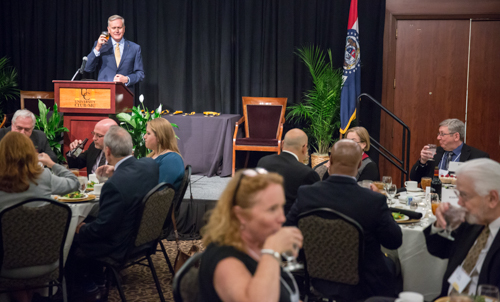
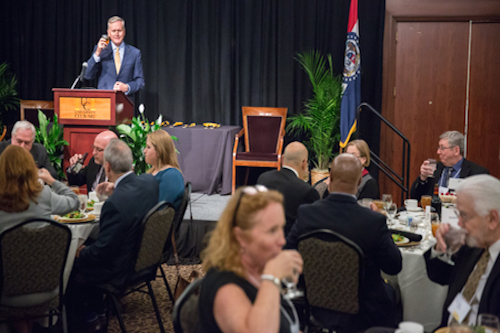
changed image size + banquet carousel

diff --git a/banquet.html b/banquet.html
@@ -2,13 +2,22 @@
    "http://www.w3.org/TR/xhtml1/DTD/xhtml1-transitional.dtd">
 <html xmlns="http://www.w3.org/1999/xhtml">
 <head>
-<<<<<<< Updated upstream
+
 	<title>	Banquet </title>
   <meta name="viewport" content="width=device-width, initial-scale=1"/>
   <meta http-equiv="content-type" content="text/html;charset=utf-8" />
-  <link rel="stylesheet" type="text/css" href="style.css" />
   <script src="https://code.jquery.com/jquery-1.12.0.min.js"></script>
   <script src="javascript.js" type="text/javascript"></script>
+  <script src="https://ajax.googleapis.com/ajax/libs/jquery/3.1.1/jquery.min.js"></script>
+  <script src="https://maxcdn.bootstrapcdn.com/bootstrap/3.3.7/js/bootstrap.min.js"></script>
+  <style>
+  .carousel-inner > .item > img,
+  .carousel-inner > .item > a > img {
+      width: 80%;
+      margin: auto;
+  }
+  </style>
+<link rel="stylesheet" type="text/css" href="style.css" />
 </head>
 
 
@@ -52,7 +61,7 @@
 <h2>Banquet</h2>
 
 
-
+<!--
 <img src="Pictures/Missouri Honor Medal_YoungraeKim/20161018_kimy_0011.jpg" alt="Banquet photo"/>
 <img src="Pictures/Missouri Honor Medal_YoungraeKim/20161018_kimy_0013.jpg" alt="Banquet photo 2"/>
 <p> The Missouri Honor Medal Banquet climactially wraps up a day of master classes with a celebratory dinner. The banquet honors the nominees with a formal three-course dinner. Each medalist is then introduced by the dean or provost, presented with a medal and invited to give a speech.</p>
@@ -65,6 +74,58 @@
 </p>
 
 <a href="BanquetInvitation_Rev1.pdf">Download Banquet invitation</a>
+-->
+
+<div class="container">
+  <br>
+  <div id="myCarousel" class="carousel slide" data-ride="carousel">
+    <!-- Indicators -->
+    <ol class="carousel-indicators">
+      <li data-target="#myCarousel" data-slide-to="0" class="active"></li>
+      <li data-target="#myCarousel" data-slide-to="1"></li>
+      <li data-target="#myCarousel" data-slide-to="2"></li>
+      <li data-target="#myCarousel" data-slide-to="3"></li>
+      <li data-target="#myCarousel" data-slide-to="4"></li>
+    </ol>
+
+    <!-- Wrapper for slides -->
+    <div class="carousel-inner" role="listbox">
+      <div class="item active">
+        <img src="20161018_kimy_0011.jpg" width="600" height="400">
+      </div>
+
+      <div class="item">
+        <img src="20161018_kimy_0013.jpg" width="600" height="400">
+      </div>
+
+      <div class="item">
+        <img src="20161018_kimy_0038.jpg" width="600" height="400">
+      </div>
+
+      <div class="item">
+        <img src="20161018_kimy_0032.jpg" width="600" height="400">
+      </div>
+
+      <div class="item">
+        <img src="20161018_kimy_0009.jpg" width="600" height="400">
+      </div>
+    </div>
+
+    <!-- Left and right controls -->
+    <a class="left carousel-control" href="#myCarousel" role="button" data-slide="prev">
+      <span class="glyphicon glyphicon-chevron-left" aria-hidden="true"></span>
+      <span class="sr-only">Previous</span>
+    </a>
+    <a class="right carousel-control" href="#myCarousel" role="button" data-slide="next">
+      <span class="glyphicon glyphicon-chevron-right" aria-hidden="true"></span>
+      <span class="sr-only">Next</span>
+    </a>
+  </div>
+</div>
+
+<p> The Missouri Honor Medal Banquet climactially wraps up a day of master classes with a celebratory dinner. The banquet honors the nominees with a formal three-course dinner. Each medalist is then introduced by the dean or provost, presented with a medal and invited to give a speech.</p>
+<p>Before and after the banquet, students and faculty can interact with the recipients in a more conversational atmosphere.</p>
+<p>To RSVP for the banquet, print and fill out the invitation. Then submit it with a cash, check or credit payment of $40 (students) or $50 to Suzette Heiman at 120 Neff Hall.</p>
+<a href="http://BanquetInvitation_Rev1.pdf" target="_blank">Download Banquet invitation</a>
 </body>
  </html>
->>>>>>> Stashed changes
